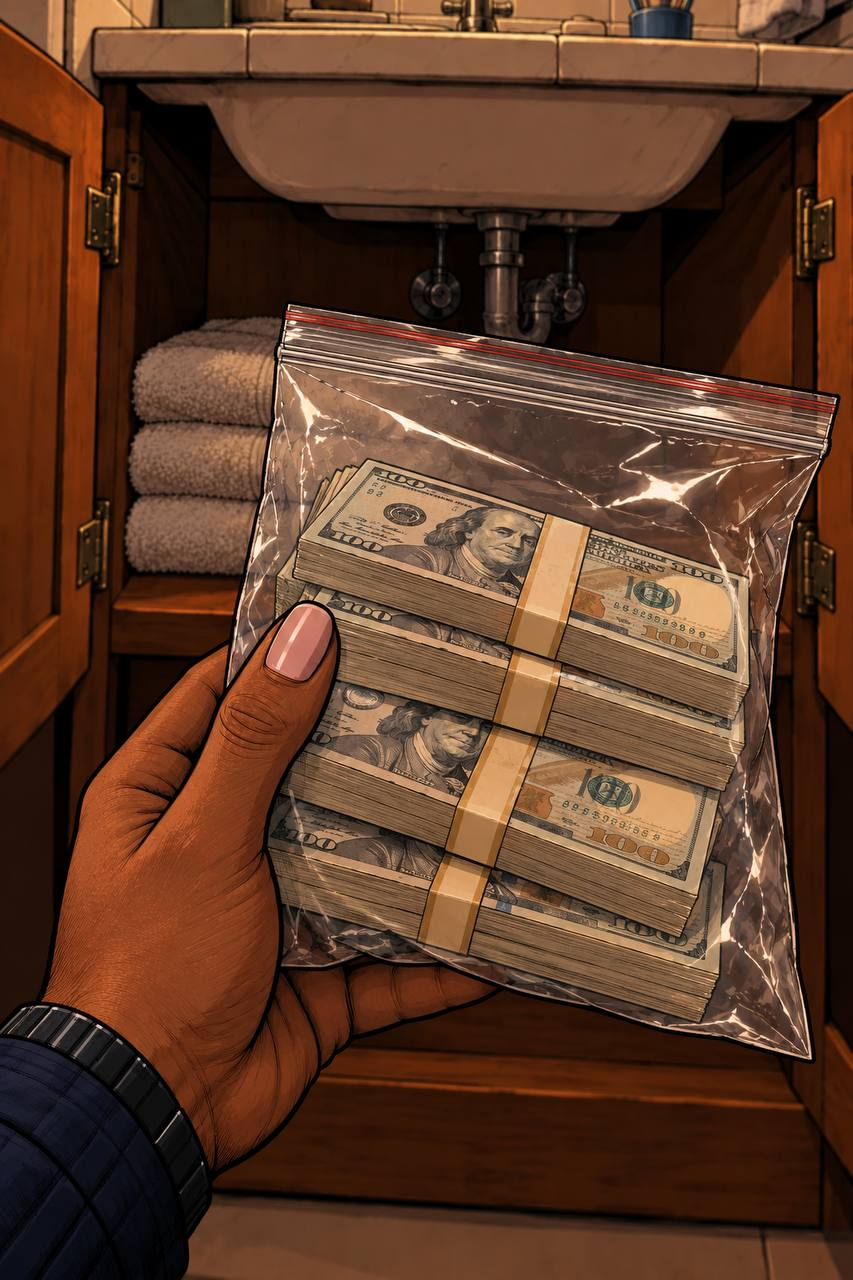
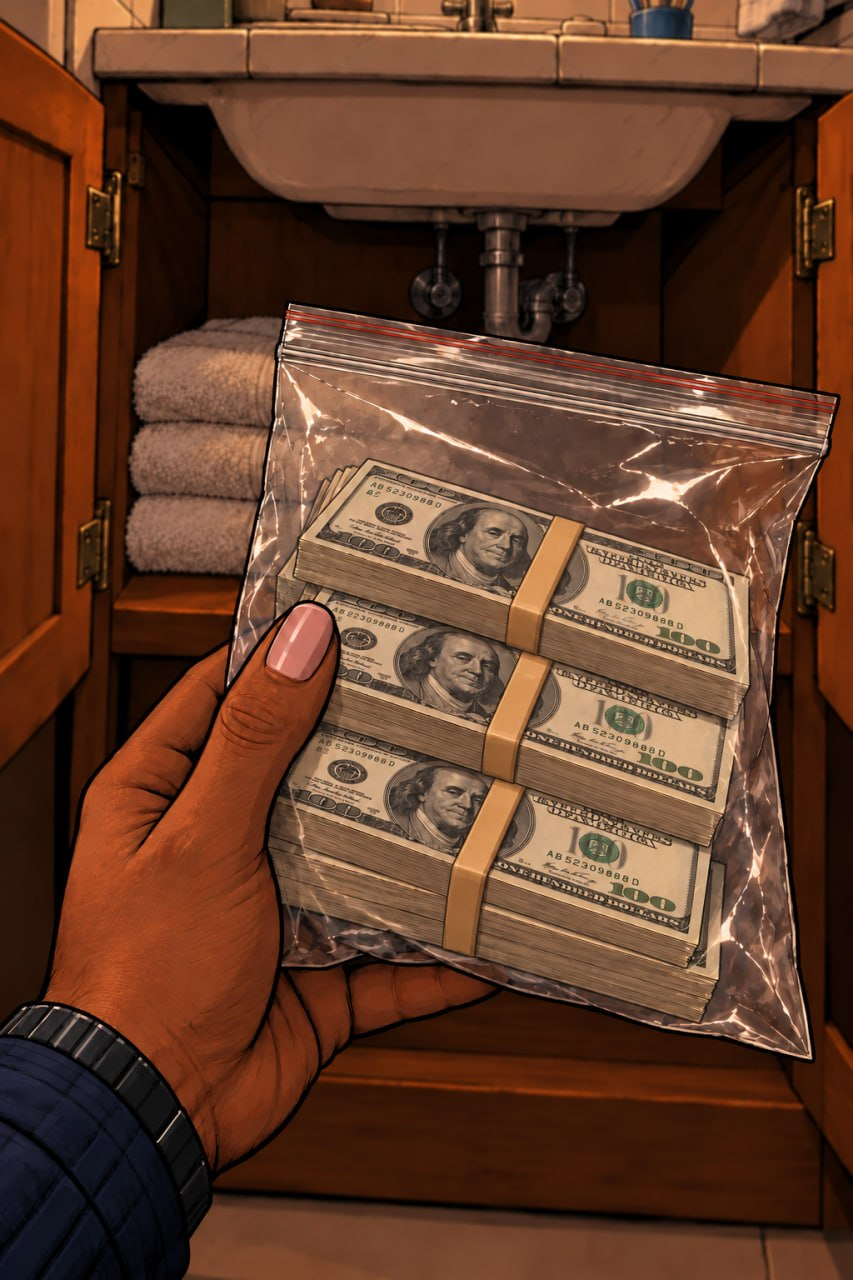
motel: new photo_back + money images, start thought, final only after all hotspots (Maria 08.10)

diff --git a/index.html b/index.html
@@ -24,7 +24,7 @@
     box-shadow:0 8px 28px rgba(0,0,0,.55); pointer-events:none; animation:fade .5s ease; }
   #final { position:absolute; left:50%; bottom:6%; transform:translateX(-50%); z-index:4; background:#fff; color:#1b1b1b;
     padding:12px 20px; border-radius:4px; font-size:18px; font-style:italic; box-shadow:0 8px 28px rgba(0,0,0,.6);
-    pointer-events:none; display:none; }
+    pointer-events:none; display:none; max-width:78%; width:max-content; text-align:center; line-height:1.35; }
   #final.on { display:block; animation:fade 1s ease; }
   #scene > .bg { position:absolute; inset:0; width:100%; height:100%; object-fit:cover; display:block;
     filter: saturate(.8) brightness(.92); user-select:none; -webkit-user-drag:none; }
@@ -143,6 +143,7 @@ const ITEM_TEXT = {
   notebook:"Televizyonun altında bulduğum gizemli mavi defter. Ona daha sonra döneceğim",
   card:"Süresi dolmuş bir park görevlisi kimlik kartı. David Reed adlı birine ait."
 };
+const START_THOUGHT = "Fırsatım varken odayı iyi aramam lazım. Hiçbir ipucunu kaçırmamalıyım.";
 const FINAL_THOUGHT = "Sanırım yeterince gördüm.";
 const PICKUP_SOUND = "snd_pickup.mp3";
 const collected = [];
@@ -156,10 +157,18 @@ function collect(key){
     slot.addEventListener('mouseleave',()=>tip.classList.remove('on')); }
 }
 const viewed = new Set();
+/* Мария 08.10: «Sanırım yeterince gördüm» только когда собраны ВСЕ предметы И было взаимодействие со ВСЕМИ
+   активными точками. Точка с крупным планом засчитывается только после открытия (щелчка), раковина —
+   только когда заглянули под неё и открыли деньги; точки без крупного плана — по наведению. */
+let finalShown=false;
+function needsOpen(h){ return !!(h.view || h.image); }
 function maybeFinal(){
   const allSeen = SCENE.hotspots.every(h=>viewed.has(h.id));
-  if(collected.length===Object.keys(ITEMS).length && allSeen && !modal.classList.contains('on')){ const f=document.getElementById('final'); f.textContent=FINAL_THOUGHT; f.classList.add('on'); }
+  if(!finalShown && collected.length===Object.keys(ITEMS).length && allSeen && !modal.classList.contains('on')){
+    finalShown=true; const f=document.getElementById('final'); f.classList.remove('on'); void f.offsetWidth;
+    f.textContent=FINAL_THOUGHT; f.classList.add('on'); }
 }
+function showStartThought(){ if(finalShown) return; const f=document.getElementById('final'); f.textContent=START_THOUGHT; f.classList.add('on'); }
 const ACTIONS = {
   bagSearch(){ if(!STATE.photoTaken) return openView(VIEWS.photoFront); if(!STATE.cardTaken) return openView(VIEWS.idcard); },
   takePhoto(){ STATE.photoTaken=true; collect('photo'); STATE.locked=true; openView(VIEWS.bag); },
@@ -269,13 +278,14 @@ function openView(v){   // v = {image, caption, inner, hint, closeSound}
   modal.classList.add('on');
 }
 function innerClick(h){
+  if(h.id==='towels') viewed.add('sink');   // под раковину заглянули: деньги открыты
   if(h.next) return openView(h.next);
   if(h.go) return openView(VIEWS[h.go]);
   if(h.action && ACTIONS[h.action]) return ACTIONS[h.action](h);
   closeModal();
 }
-SCENE.hotspots.forEach(h=>{ const el=makeHot(h, scene, h=>{ viewed.add(h.id); if(h.view) openView(VIEWS[h.view]); else if(h.image) openView(h); else maybeFinal(); });
-  el.addEventListener('mouseenter',()=>{ if(!EDIT) viewed.add(h.id); });
+SCENE.hotspots.forEach(h=>{ const el=makeHot(h, scene, h=>{ if(h.id!=='sink') viewed.add(h.id); if(h.view) openView(VIEWS[h.view]); else if(h.image) openView(h); else maybeFinal(); });
+  el.addEventListener('mouseenter',()=>{ if(!EDIT && !needsOpen(h)) viewed.add(h.id); });
   el.addEventListener('mouseleave',()=>maybeFinal()); });
 function preload(v){ if(v.image){ const p=new Image(); p.src=v.image; } (v.inner||[]).forEach(i=>i.next&&preload(i.next)); }
 Object.values(ITEMS).forEach(u=>{ const p=new Image(); p.src=u; });
@@ -286,7 +296,7 @@ function closeModal(){ if(STATE.locked) return; if(!modal.classList.contains('on
   maybeFinal(); }
 modal.addEventListener('click',closeModal); document.getElementById('close').addEventListener('click',closeModal);
 addEventListener('keydown',e=>{ if(e.key==='Escape') closeModal(); });
-document.getElementById('gate').addEventListener('click',function(){ audio().resume(); startRain(); ['snd_drawer.mp3','snd_pillow.mp3','snd_map.mp3','snd_money.mp3','snd_bag.mp3',PICKUP_SOUND].forEach(loadSound); this.classList.add('off'); });
+document.getElementById('gate').addEventListener('click',function(){ audio().resume(); startRain(); showStartThought(); ['snd_drawer.mp3','snd_pillow.mp3','snd_map.mp3','snd_money.mp3','snd_bag.mp3',PICKUP_SOUND].forEach(loadSound); this.classList.add('off'); });
 document.getElementById('mute').addEventListener('click',function(){ muted=!muted; master.gain.value=muted?0:1; if(rainNode&&rainNode.el) rainNode.el.muted=muted; this.textContent=muted?'🔇':'🔊'; });
 
 /* ============ РЕЖИМ РАЗМЕТКИ (?edit=1) ============ */
